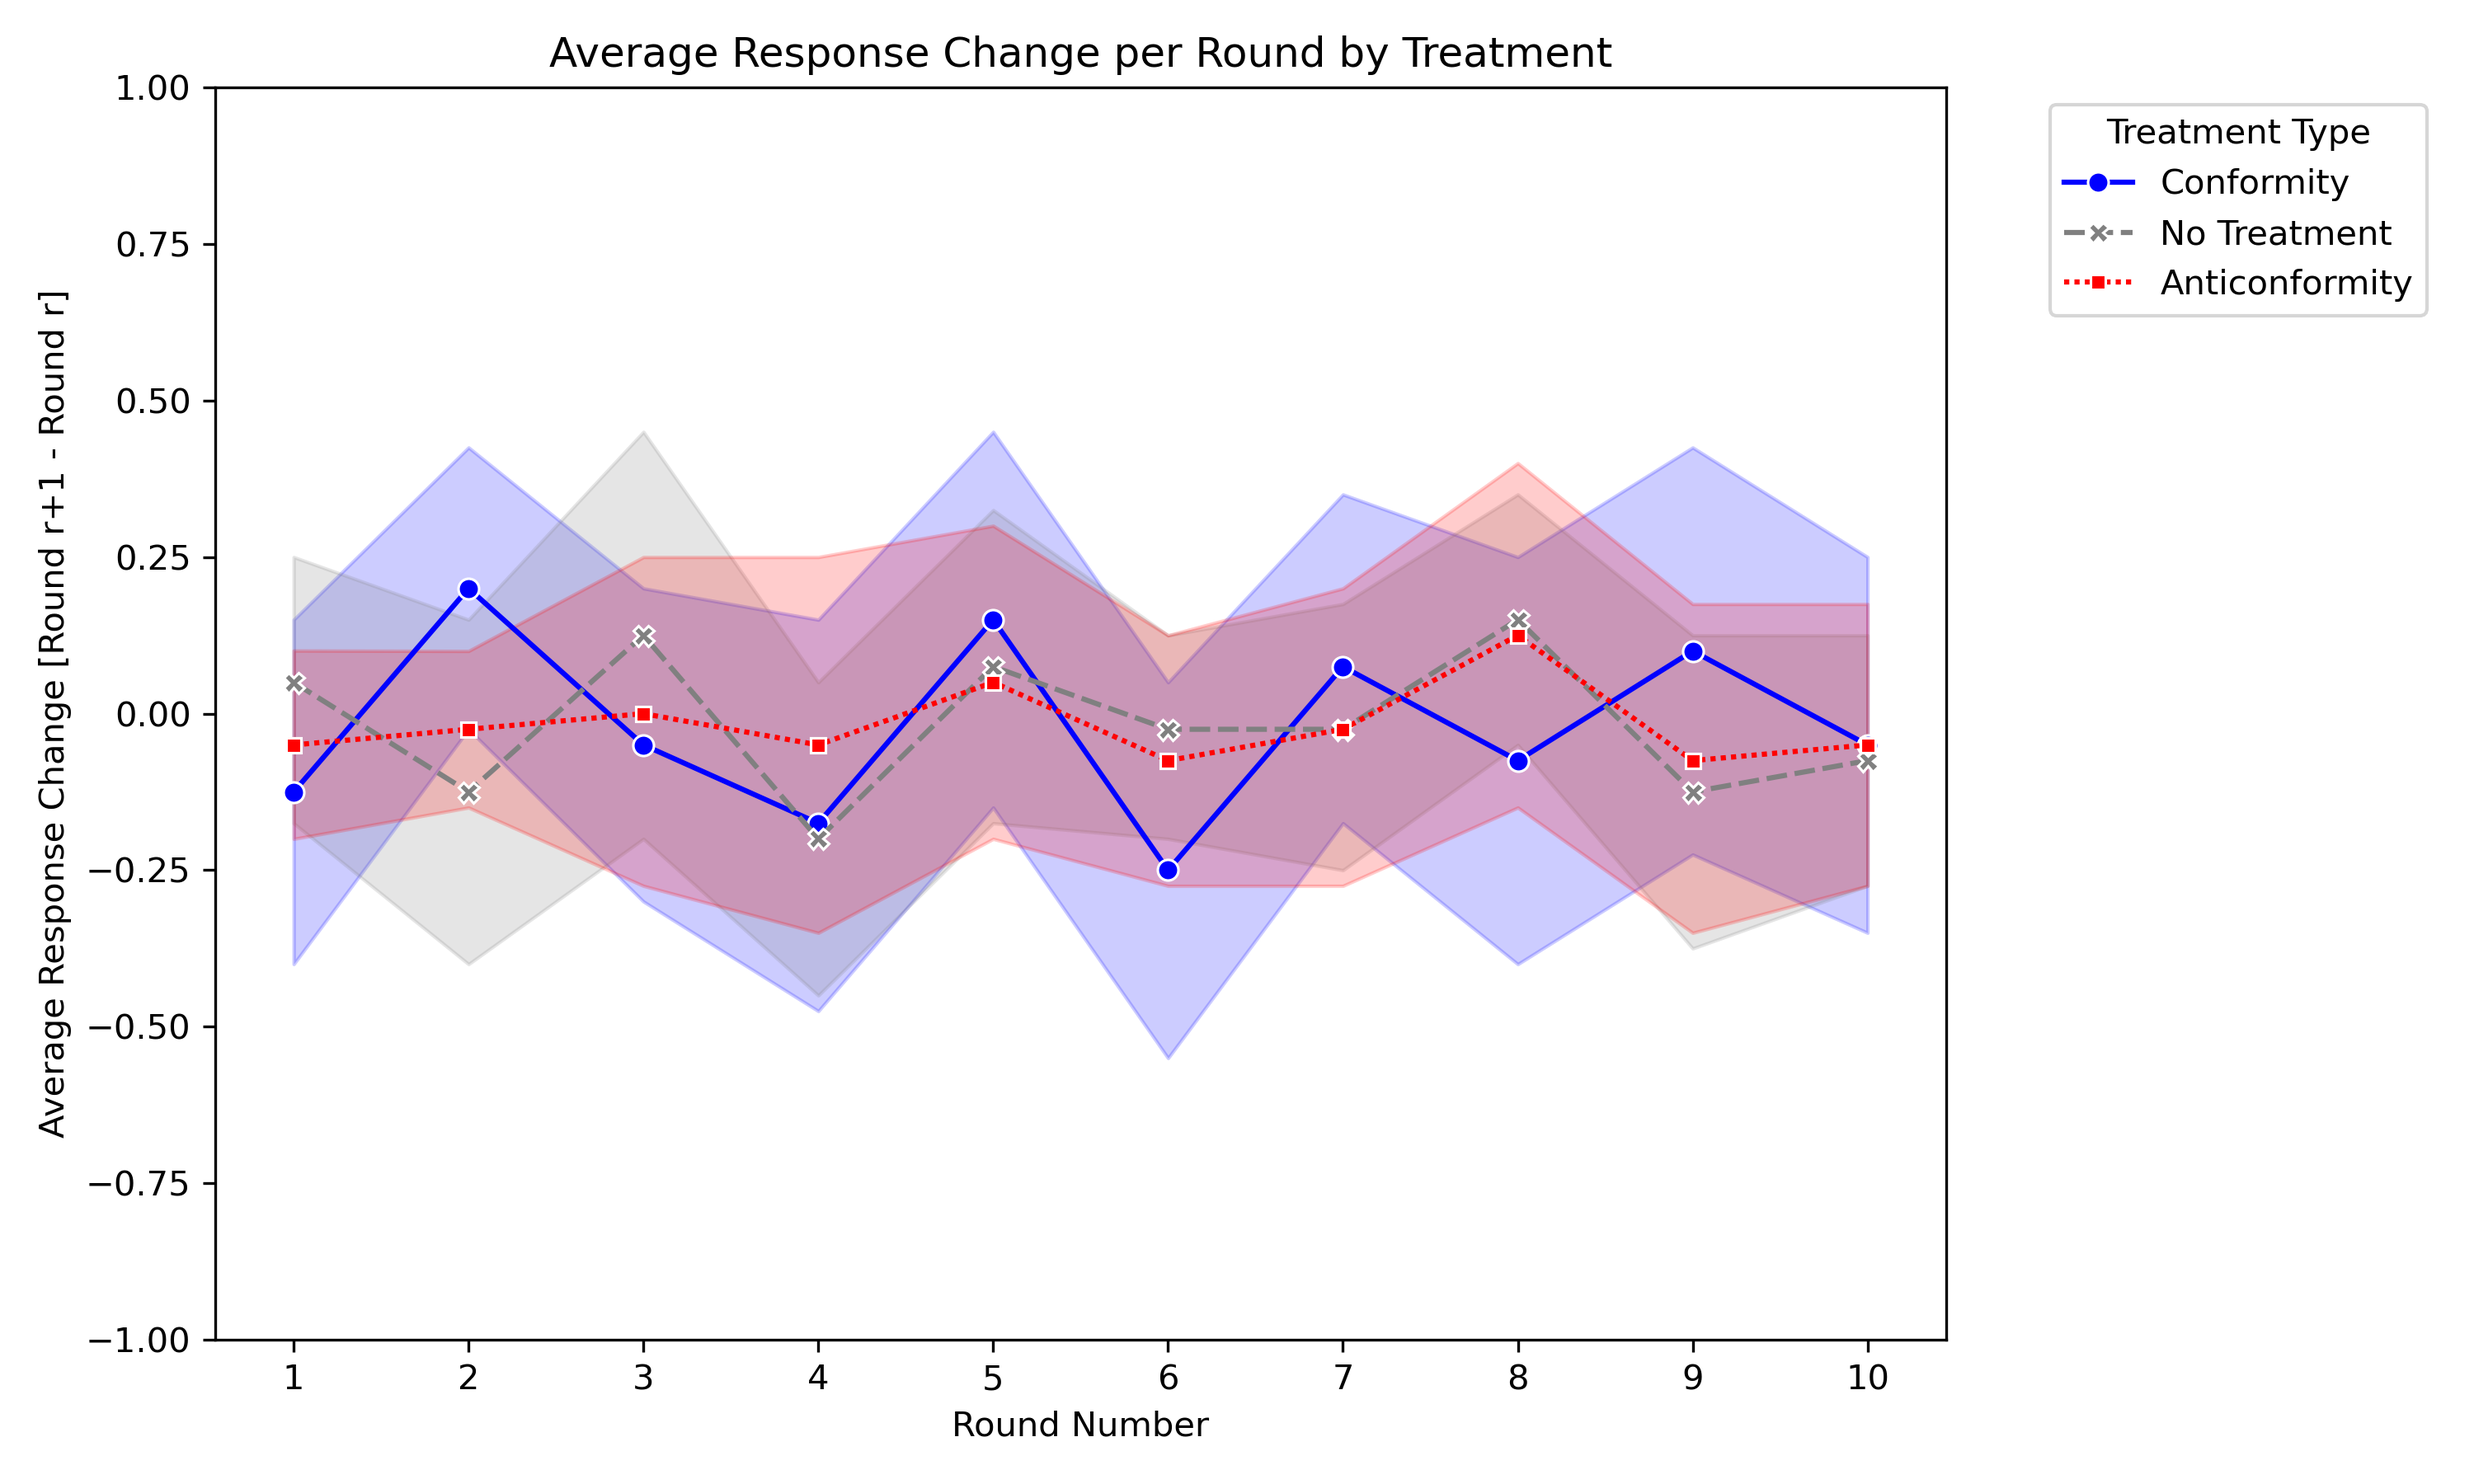
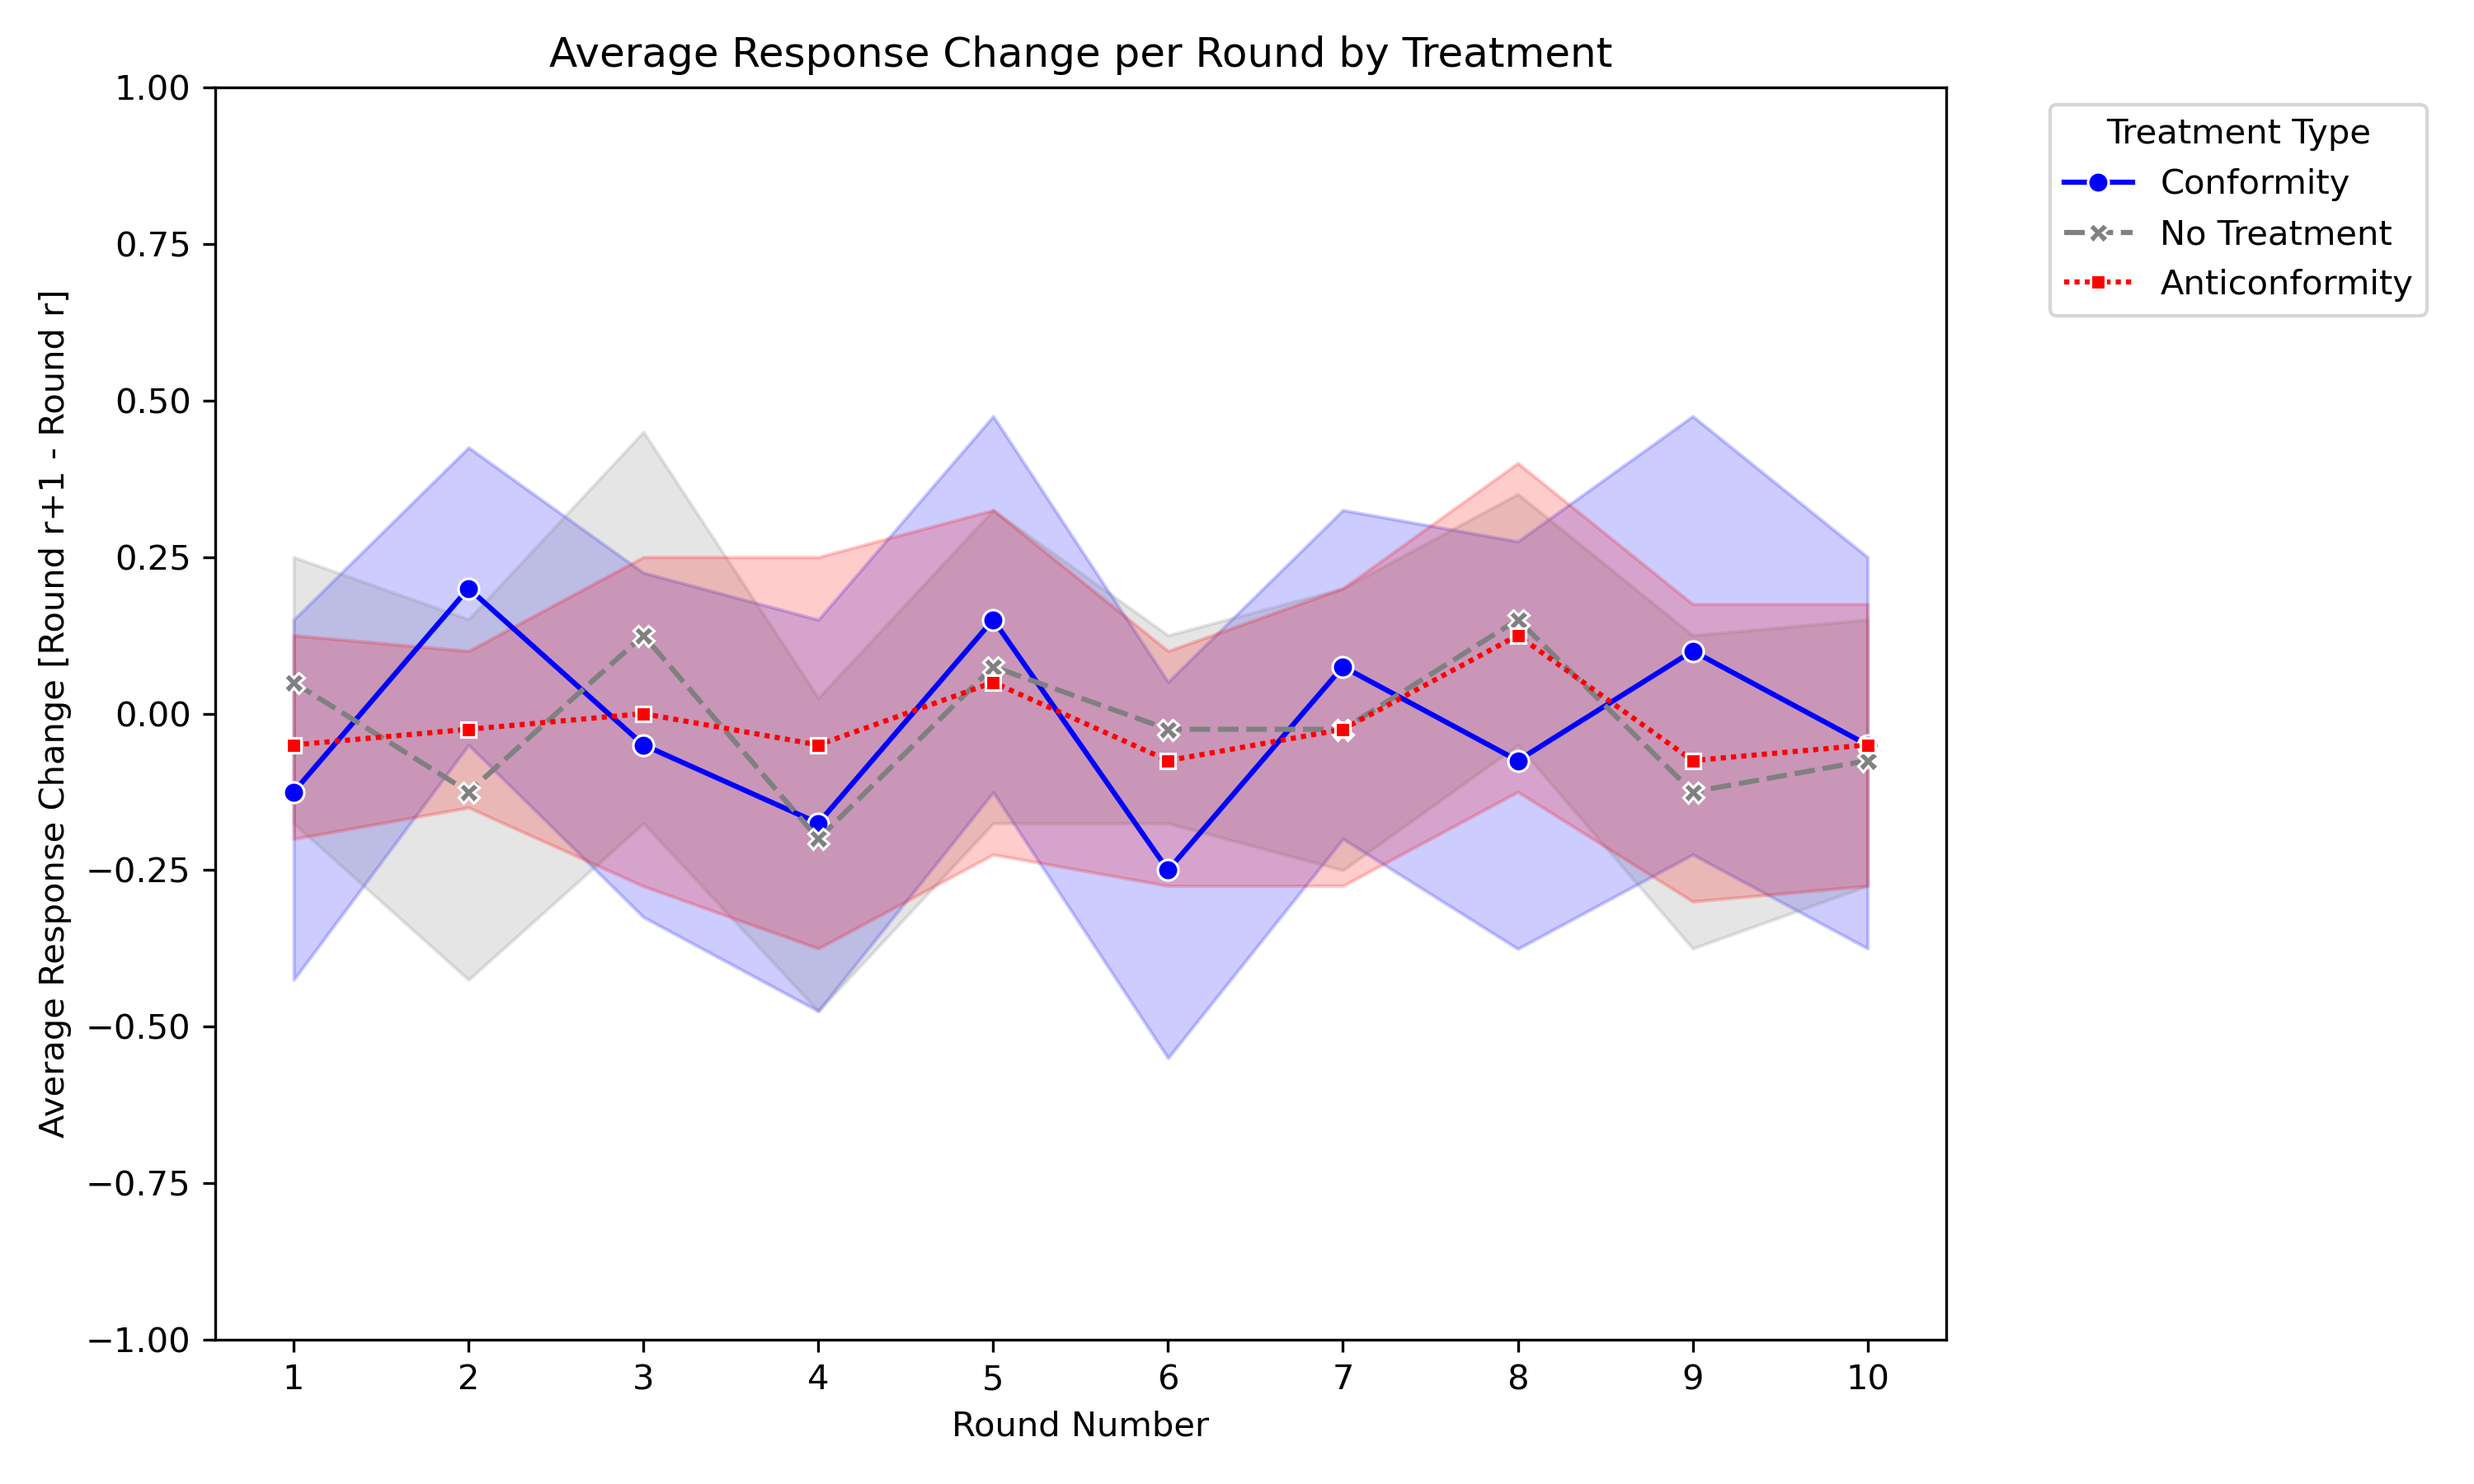
minor changes

diff --git a/plot_treatment_opinion_change.py b/plot_treatment_opinion_change.py
@@ -589,14 +589,58 @@ sns.lineplot(
     dashes=True,   # Always use dashed lines for all treatment types
     palette=palette
 )
+
 plt.title('Average Response Change per Round by Treatment')
 plt.xlabel('Round Number')
 plt.ylabel('Average Delta [absolute change in response]')
-plt.xticks(range(1, 11))
+plt.xticks(range(0, 11))
 plt.legend(title='Treatment Type', loc='upper left', bbox_to_anchor=(1.05, 1))
 plt.tight_layout()
 plt.savefig('abs_response_change_per_round_by_treatment.png', dpi=300)
 plt.show()
+
+
+## Now pointplot with whiskers
+
+# Plot the response change from round 1 to round 10 for all treatments, anticonformity and conformity
+plt.figure(figsize=(12, 6))
+palette = {'Conformity': 'blue', 'Anticonformity': 'red', 'No Treatment': 'gray'}
+sns.pointplot(
+    data=df_steps,
+    x='round_no',
+    y='response_delta',
+    hue='treatment_type',
+    palette=palette,
+    dodge=0.3,
+    markers='o',
+    linestyles=':',  # dots
+    errorbar='se',  # Show standard error bars
+    capsize=0.1
+)
+sns.stripplot(
+    data=df_steps,
+    x='round_no',
+    y='response_delta',
+    hue='treatment_type',
+    palette=palette,
+    dodge=True,
+    jitter=True,
+    alpha=0.1,
+    marker='.',
+    linewidth=0,
+    legend=False  # Avoid duplicate legend
+)
+
+plt.title('Average Response Change per Round by Treatment')
+plt.xlabel('Round Number')
+plt.ylabel('Average Delta [absolute change in response]')
+plt.xticks(range(0, 11))
+plt.legend(title='Treatment Type', loc='upper left', bbox_to_anchor=(1.05, 1))
+plt.tight_layout()
+plt.savefig('abs_response_change_per_round_by_treatment_point.png', dpi=300)
+plt.show()
+
+
 
 # Plot the response change from round 1 to round 10 for all treatments, anticonformity and conformity
 plt.figure(figsize=(10, 6))
@@ -620,6 +664,50 @@ plt.legend(title='Treatment Type', loc='upper left', bbox_to_anchor=(1.05, 1))
 plt.tight_layout()
 plt.savefig('rel_response_change_per_round_by_treatment.png', dpi=300)
 plt.show()
+
+
+
+# Plot the response change from round 1 to round 10 for all treatments, anticonformity and conformity
+plt.figure(figsize=(12, 6))
+palette = {'Conformity': 'blue', 'Anticonformity': 'red', 'No Treatment': 'gray'}
+sns.pointplot(
+    data=df_steps,
+    x='round_no',
+    y='response_change',
+    hue='treatment_type',
+    palette=palette,
+    dodge=0.3,
+    markers='o',
+    linestyles=':',  # dots
+    errorbar='se',  # Show standard error bars
+    capsize=0.1
+)
+sns.stripplot(
+    data=df_steps,
+    x='round_no',
+    y='response_change',
+    hue='treatment_type',
+    palette=palette,
+    dodge=True,
+    jitter=True,
+    alpha=0.1,
+    marker='.',
+    linewidth=0,
+    legend=False  # Avoid duplicate legend
+)
+
+plt.title('Average Response Change per Round by Treatment')
+plt.xlabel('Round Number')
+plt.ylabel('Average Response Change [Round r+1 - Round r]')
+plt.xticks(range(0, 11))
+plt.legend(title='Treatment Type', loc='upper left', bbox_to_anchor=(1.05, 1))
+plt.tight_layout()
+plt.savefig('_response_change_per_round_by_treatment_point.png', dpi=300)
+plt.show()
+
+
+
+
 
 # Make the same figures but create subpanels for different participant.scenario
 
@@ -892,4 +980,123 @@ for i, t_type in enumerate(treatment_types):
 plt.tight_layout()
 plt.savefig('rel_overlay_response_change_per_round_by_ext_treatment.png', dpi=300)
 #plt.savefig('rel_response_change_per_round_by_ext_treatment.png', dpi=300)
+plt.show()
+
+
+## POINT PLOT
+# Prepare No Treatment data for overlay (average across both Neutral and Non-Neutral)
+no_treatment_data = df_steps_extneu[df_steps_extneu['treatment_type'] == 'No Treatment']
+
+palette = {'Neutral': '#785f6e', 'Non-Neutral':'#631a46'}
+treatment_types = ['Conformity', 'Anticonformity', 'No Treatment']
+n_types = len(treatment_types)
+fig, axes = plt.subplots(1, n_types, figsize=(7 * n_types, 5), sharex=True, sharey=True)
+if n_types == 1:
+    axes = [axes]  # Ensure axes is always iterable
+
+# Compute average No Treatment overlay for Neutral and Non-Neutral
+overlay_means = no_treatment_data.groupby(['round_no'])['response_delta'].mean().reset_index()
+
+for i, t_type in enumerate(treatment_types):
+    data = df_steps_extneu[df_steps_extneu['treatment_type'] == t_type]
+    # Use pointplot for means and error bars
+    sns.pointplot(
+        data=data,
+        x='round_no',
+        y='response_delta',
+        hue='initially_neutral',
+        palette=palette,
+        dodge=0.3,
+        markers='o',
+        linestyles=':',  # dotted lines
+        errorbar='se',
+        capsize=0.1,
+        ax=axes[i]
+    )
+    # Overlay average No Treatment lines for Neutral and Non-Neutral
+    means = overlay_means
+    if not means.empty:
+        axes[i].plot(
+            means['round_no'], means['response_delta'],
+            label=f'No Treatment Avg',
+            color="#53E3E8",
+            linestyle='-',
+            marker='x',
+            linewidth=2,
+            alpha=0.7,
+            zorder=0
+        )
+
+    axes[i].set_title(f'Treatment: {t_type}')
+    axes[i].set_xlabel('Round Number')
+    axes[i].set_ylabel('Avg. Absolute Change')
+    axes[i].set_xticks(range(1, 11))
+    # Only show legend for the last subplot
+    if i != n_types - 1:
+        axes[i].get_legend().remove()
+    else:
+        axes[i].legend(title='Initial Opinion', loc='upper left', bbox_to_anchor=(1.05, 1))
+plt.xticks(range(0, 11))
+plt.tight_layout()
+plt.savefig('abs_overlay_response_change_per_round_by_ext_treatment_point.png', dpi=300)
+plt.show()
+
+
+## POINT PLOT: Relative Change
+#TODO fix the round number for the overlay line
+# Prepare No Treatment data for overlay (average across both Neutral and Non-Neutral)
+no_treatment_data = df_steps_extneu[df_steps_extneu['treatment_type'] == 'No Treatment']
+
+palette = {'Neutral': '#785f6e', 'Non-Neutral':'#631a46'}
+treatment_types = ['Conformity', 'Anticonformity', 'No Treatment']
+n_types = len(treatment_types)
+fig, axes = plt.subplots(1, n_types, figsize=(7 * n_types, 5), sharex=True, sharey=True)
+if n_types == 1:
+    axes = [axes]  # Ensure axes is always iterable
+
+# Compute average No Treatment overlay for Neutral and Non-Neutral
+overlay_means = no_treatment_data.groupby(['round_no'])['response_change'].mean().reset_index()
+
+for i, t_type in enumerate(treatment_types):
+    data = df_steps_extneu[df_steps_extneu['treatment_type'] == t_type]
+    # Use pointplot for means and error bars
+    sns.pointplot(
+        data=data,
+        x='round_no',
+        y='response_change',
+        hue='initially_neutral',
+        palette=palette,
+        dodge=0.3,
+        markers='o',
+        linestyles=':',  # dotted lines
+        errorbar='se',
+        capsize=0.1,
+        ax=axes[i]
+    )
+    # Overlay average No Treatment lines for Neutral and Non-Neutral
+    means = overlay_means
+    if not means.empty:
+        axes[i].plot(
+            means['round_no'], means['response_change'],
+            label=f'No Treatment Avg',
+            color="#53E3E8",
+            linestyle='-',
+            marker='x',
+            linewidth=2,
+            alpha=0.7,
+            zorder=0
+        )
+
+    axes[i].set_title(f'Treatment: {t_type}')
+    axes[i].set_xlabel('Round Number')
+    axes[i].set_ylabel('Avg. Relative Change')
+    axes[i].set_xticks(range(1, 11))
+    # Only show legend for the last subplot
+    if i != n_types - 1:
+        axes[i].get_legend().remove()
+    else:
+        axes[i].legend(title='Initial Opinion', loc='upper left', bbox_to_anchor=(1.05, 1))
+plt.xticks(range(0, 11))
+plt.tight_layout()
+plt.savefig('rel_overlay_response_change_per_round_by_ext_treatment_point.png', dpi=300)
 plt.show()
